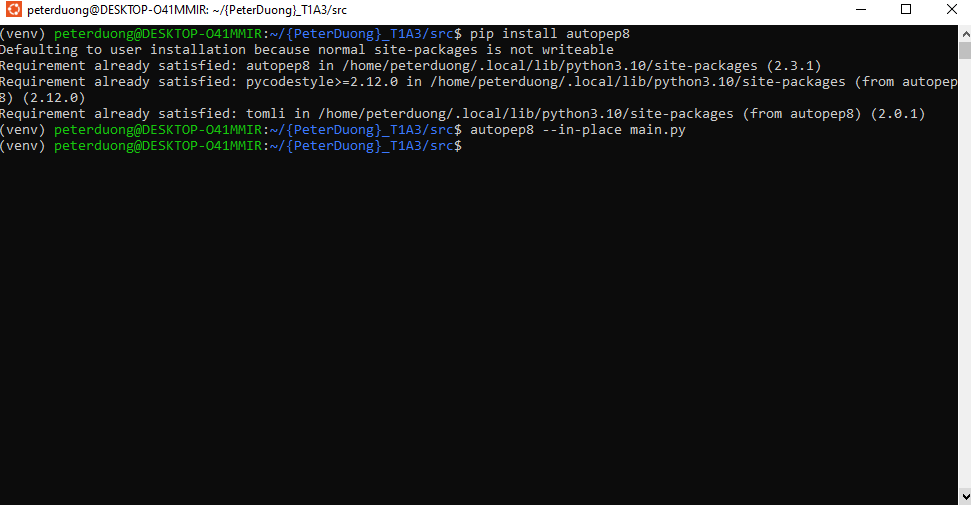
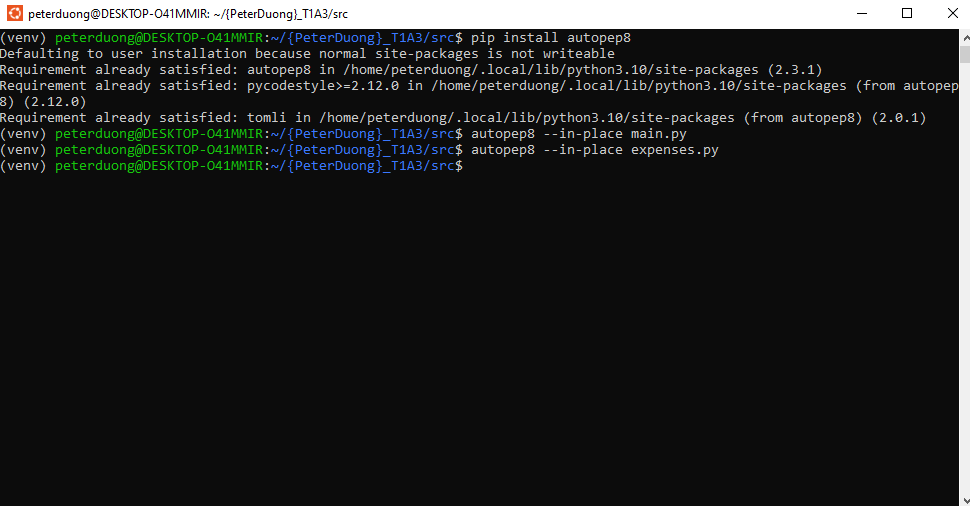
added trello board features and checklists and checklist items

Changed region(s): [[0.0, 0.0, 0.9897, 0.3564], [0.9897, 0.0594, 1.0, 0.1485], [0.9897, 0.9802, 1.0, 1.0]]

diff --git a/src/main.py b/src/main.py
@@ -2,7 +2,7 @@ from expenses import Expenses
 from rich import print
 from rich.console import Console
 from rich.theme import Theme
-from expenses import add_expense_amount, add_expense_category, add_expense_date, add_expense_name, save_expense, total_expenses, remove_expense, view_expenses, exit_program, main_menu
+from expenses import add_budget,add_expense_amount, add_expense_category, add_expense_date, add_expense_name, save_expense, total_expenses, remove_expense, view_expenses, exit_program, main_menu
 
 # Initialise
 console = Console()
@@ -21,15 +21,7 @@ def sub_menu(user_selection):
     if user_selection == 1:
         console.print("Starting your Expense Tracking Journey...",
                       style="bold underline yellow")
-        while True:
-            user_budget = float(input("Please enter your budget: "))
-            if user_budget <= 0:
-                error.print("\nPlease enter a valid number\n", style="error")
-                continue
-            else:
-                error.print(
-                    f"Your budget is ${user_budget:.2f}", style="success")
-                break
+        user_budget = add_budget()
 
         while True:
             console.print(

diff --git a/src/expenses.py b/src/expenses.py
@@ -150,9 +150,20 @@ def view_expenses(file_path):
 
             else:
                 error.print("Please enter a valid answer", style="error")
+                continue
     else:
         error.print("You currently have no expense entries", style="error")
 
+def add_budget():
+    while True:
+        user_budget = float(input("Please enter your budget: "))
+        if user_budget <= 0:
+            error.print("\nPlease enter a valid number\n", style="error")
+            continue
+        else:
+            error.print(
+            f"Your budget is ${user_budget:.2f}", style="success")
+            return user_budget
 
 def total_expenses(file_path, user_budget):
     if os.path.exists(file_path):
@@ -188,6 +199,7 @@ def total_expenses(file_path, user_budget):
 
     else:
         error.print("You have no expense entries to sum", style="error")
+        return
 
     # Remove files
 

diff --git a/tests/test_expenses.py b/tests/test_expenses.py
@@ -1,0 +1,10 @@
+import pytest
+import src.expenses as expenses
+
+def test_view_expenses():
+    if True:
+        raise Exception("You have an error!")
+    
+
+# def test_main():
+    

diff --git a/README.md b/README.md
@@ -77,6 +77,11 @@ be included in a while loop condition after selecting option
 
 ## Implementation Plan (Project management platform to track this plan - Trello)
 ### Outline each feature implementation and checklist of tasks for each feature
+[TrelloBoard-Feature1](./docs/Trello_Feature1.PNG)
+[TrelloBoard-Feature2](./docs/Trello_Feature1.PNG)
+[TrelloBoard-Feature3](./docs/Trello_Feature1.PNG)
+[TrelloBoard-Feature4](./docs/Trello_Feature1.PNG)
+
 
 ### Prioritise implementation of different features, checklist items within a feature
 
@@ -95,14 +100,18 @@ be included in a while loop condition after selecting option
 
 
 ## Trello
+### Link to Trello 
+[TrelloBoard-Link](https://trello.com/b/f3oIGayB/t1a3-expense-tracker)
 
+### Screenshot of Trello (Project Management Platform) - Track Implementation Plan
+![TrelloBoard](./docs/TrelloFinal.PNG)
 
 ## Algorithms 
 
 ## Python Styling Guide
 My chosen styling guide is PEP 8 – Style Guide for Python Code(van Rossum, Warsaw and Coghlan, 2001). My terminal application will adhere to PEP 8, a commonly used styling guide within Python (GeeksforGeeks, 2020). I have an installed autopep8 package to have my code adhere to PEP 8 Styling guide standards consistently throughout my application.
 
-### Screenshot of AutoPEP8 Used for Expense Tracking Application: 
+### Screenshot of AutoPEP8 Used for Expense Tracking Application all files.
 ![Auto-Pep8](./docs/AutoPep8.PNG)
 
 The chosen styling guide may be found at: [PEP8](https://peps.python.org/pep-0008/).  
